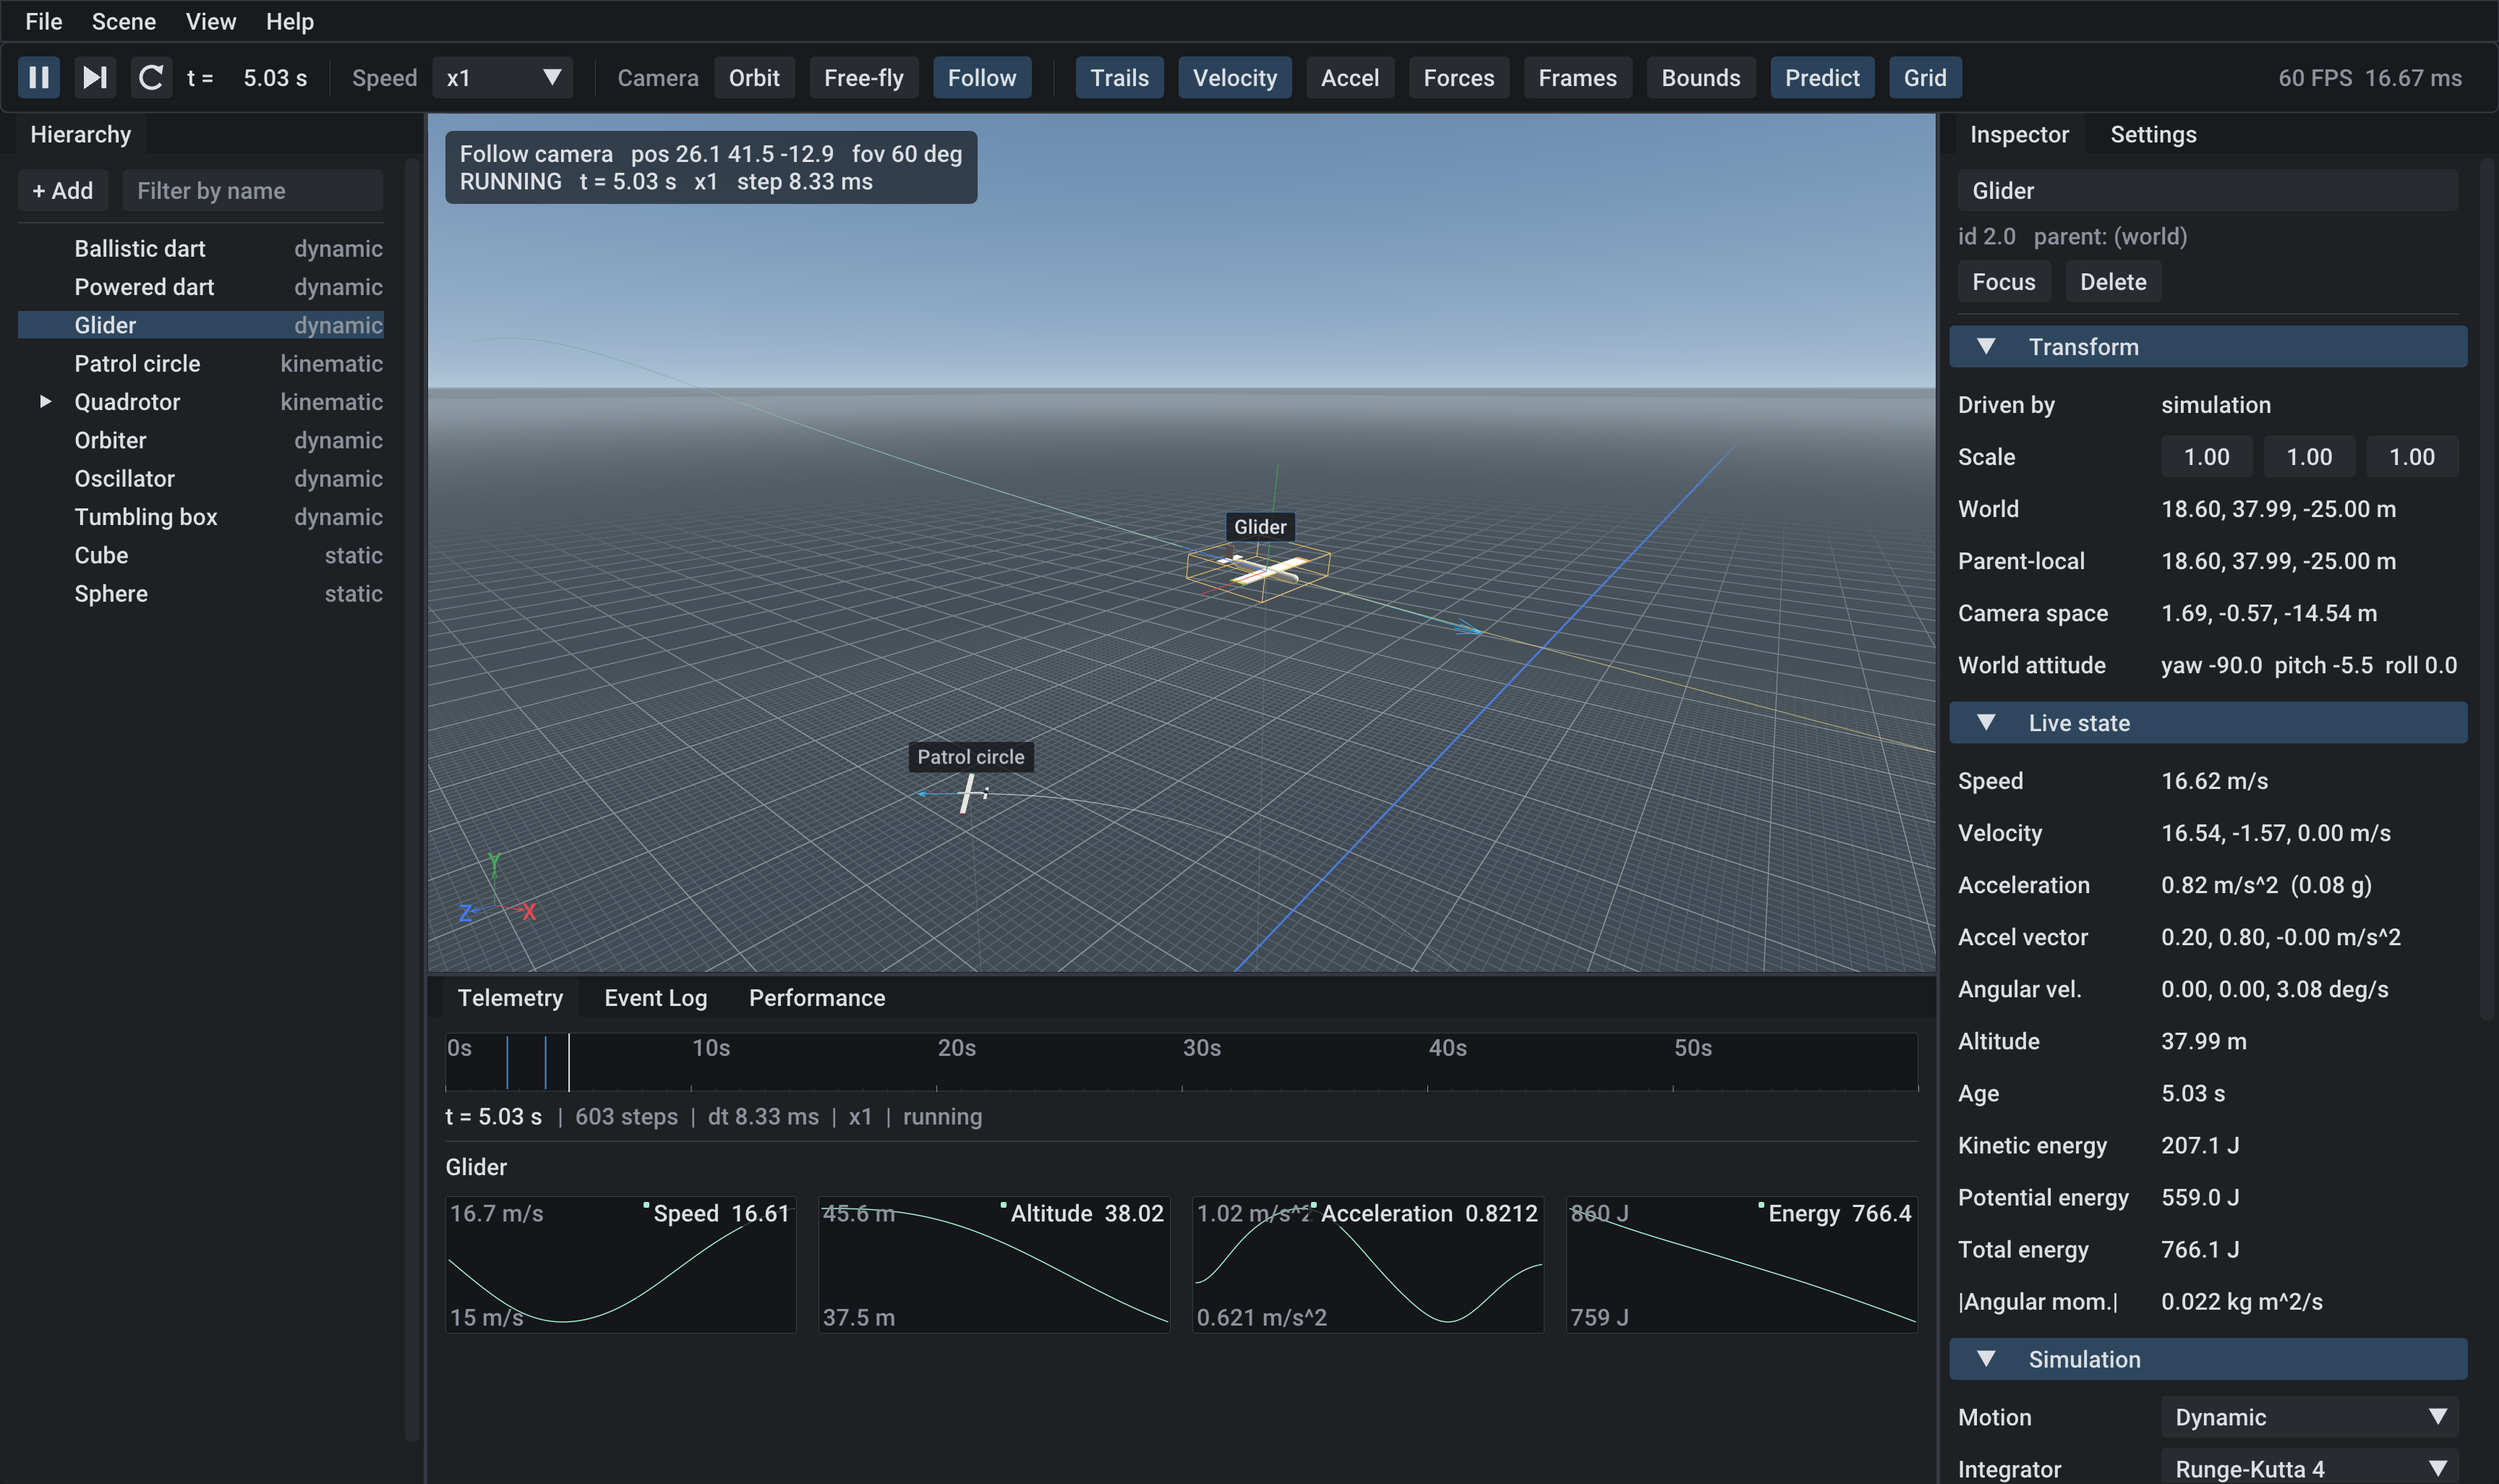
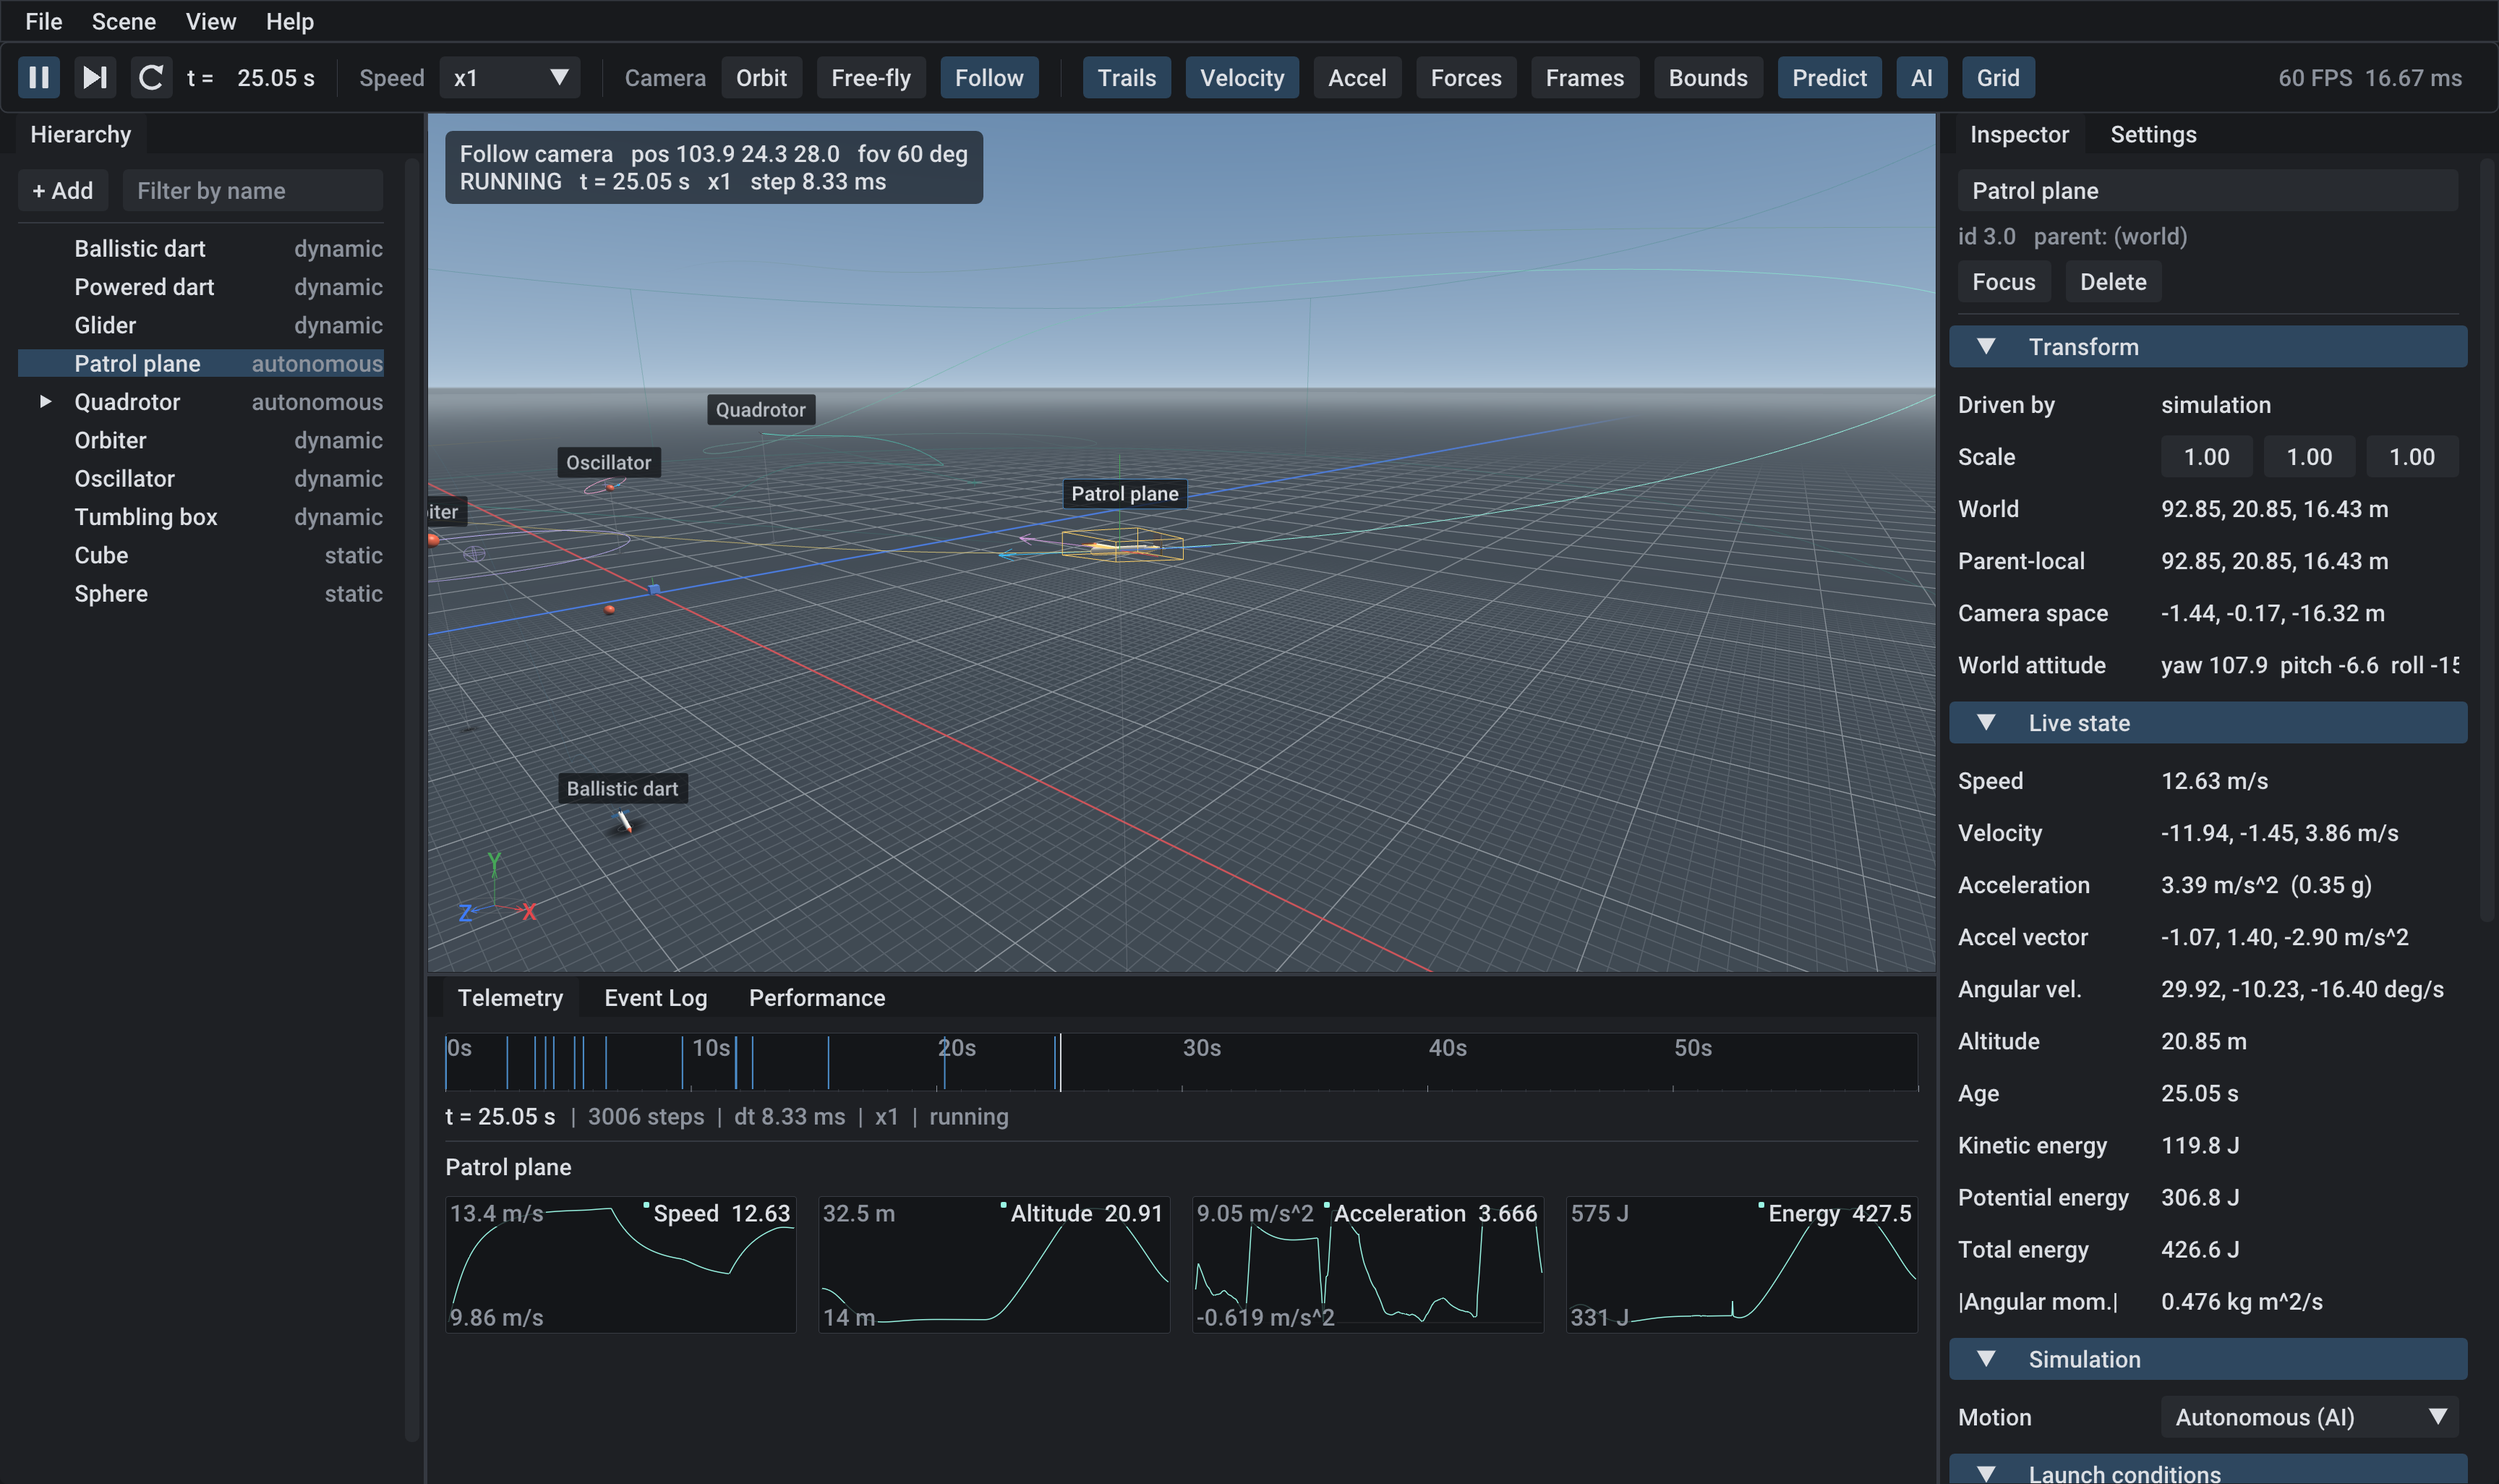
docs: describe autonomous flight agents
README feature section (decision making, steering behaviours, flight
envelopes, determinism, inspector and overlay), agent notes and limits
(bounding-sphere obstacles), architecture design note on the sim/world
split, sensing, determinism and forecasts; refreshed editor screenshot.

diff --git a/README.md b/README.md
@@ -6,10 +6,12 @@ architecture behind fast-moving aerial objects. It is written from the
 ground up in C++20 on SDL3, OpenGL 3.3 and Dear ImGui, with its own math
 library and a GoogleTest suite.
 
-It is an educational sandbox. Every object is a generic rigid body or a
-scripted path driven by configurable toy force models: balls, boxes, model
-darts, a glider, a quadrotor frame, springs, orbits. There is no guidance,
-targeting or interception logic anywhere in the code base.
+It is an educational sandbox. Every object is a generic rigid body, a
+scripted path or a self-flying "game AI" agent driven by configurable toy
+models: balls, boxes, model darts, a glider, a quadrotor frame, a small
+plane, springs, orbits. Agents only fly to points they pick themselves and
+only ever steer away from other objects; there is no guidance, targeting or
+interception logic anywhere in the code base.
 
 ![AeroLab editor: hierarchy, 3D viewport, inspector and telemetry](docs/images/editor.png)
 
@@ -45,6 +47,32 @@ targeting or interception logic anywhere in the code base.
 * Ground contact with restitution and Coulomb friction; events for thrust
   burnout, impacts and numerical divergence.
 * Play, pause, single step, reset and a 0.05x to 16x time scale.
+
+**Autonomous flight (game AI)**
+* The demo's quadrotor and patrol plane fly themselves; any object can be
+  switched to *Autonomous (AI)* in the inspector or spawned with the *AI
+  hover flight* / *AI wing flight* presets.
+* Each agent runs sense -> decide -> steer -> move every fixed step: a small
+  state machine (transit, loiter) picks destinations inside its flight area
+  by scoring random candidates (leg length, turn needed, clear line of
+  flight, novelty), chooses a cruise speed per leg, and hovers or circles
+  for a while on arrival.
+* Steering behaviours: arrive, meander (filtered random turning), stay in
+  area, altitude band, and ray-cast obstacle avoidance ("context steering":
+  fly the smallest clear deviation). Feelers work in each obstacle's moving
+  frame, so agents anticipate other moving objects; wings also check the
+  arc they are turning on, and anything too close pushes the agent away.
+  An agent whose destination becomes occupied picks another one.
+* Two flight envelopes: hover (stops, tilts up to a limit to accelerate,
+  jerk-limited) and wing (minimum airspeed, bank-limited turns with a roll
+  rate limit, climb and path-angle limits, coordinated-turn attitude).
+* Deterministic: a seeded generator means the same seed gives the same
+  flight, and the look-ahead line replays the agent's own future
+  decisions (exactly, as long as nothing else changes course).
+* Inspector *Autopilot* section: what it is doing, its destination, leg
+  speed and timers, what it is keeping clear of, plus its main tuning knobs.
+  The *AI* toolbar toggle draws destinations, the flight area, the
+  steering request and the object being avoided.
 
 **Editor**
 * Docking layout: viewport centre, scene hierarchy left, inspector and
@@ -143,10 +171,10 @@ coordinate conventions, frame anatomy and design notes.
 | `src/math` | Vec2/3/4, Mat3/4, Quat, Transform, projections, rays, AABBs |
 | `src/core` | Logging, timing, fixed timestep, input, ring buffer, stats |
 | `src/geometry` | Procedural meshes, mesh library, debug line lists |
-| `src/sim` | Rigid-body state, force model, integrators, kinematic paths |
+| `src/sim` | Rigid-body state, force model, integrators, kinematic paths, flight agents |
 | `src/camera` | Camera and the free-fly/orbit/follow rig |
 | `src/scene` | Entities, generational handles, transform hierarchy |
-| `src/world` | Simulation system, presets, picking, debug visualization |
+| `src/world` | Simulation system, agent sensing, presets, picking, debug visualization |
 | `src/render` | OpenGL 3.3 loader, shaders, meshes, MSAA target, renderer |
 | `src/editor` | Dear ImGui editor panels and widgets |
 | `src/app` | SDL3 platform layer, main loop, command line |
@@ -170,6 +198,13 @@ coordinate conventions, frame anatomy and design notes.
   single-precision rendering and the UI sane.
 * **Toy models.** Drag, lift and the weathervane torque are textbook
   idealizations for teaching, not aerodynamic models of any real vehicle.
+* **Agents.** Flight agents are point masses with simple envelopes, tuned
+  to look plausible: they demonstrate game-AI decision making and steering,
+  not the flight control of any real aircraft. Tests check their envelope,
+  area and altitude limits on every step, and that they never touch an
+  obstacle across many seeds. Obstacles are bounding spheres: a long
+  thin prop becomes a large keep-out volume, and one big enough to engulf
+  an agent's whole flight area is ignored by that agent.
 
 ## Third-party components
 

diff --git a/docs/ARCHITECTURE.md b/docs/ARCHITECTURE.md
@@ -2,9 +2,11 @@
 
 AeroLab is a small, purpose-built 3D simulation engine and editor for exploring
 the mathematics, physics, and graphics programming behind fast-moving aerial
-objects. It is an **educational sandbox**: every object is a generic rigid body
-or kinematic path driven by configurable toy force models. There is no
-guidance, targeting, or interception logic anywhere in the code base.
+objects. It is an **educational sandbox**: every object is a generic rigid body,
+a kinematic path or a self-flying game-AI agent driven by configurable toy
+models. Agents only head for points they choose themselves and only ever
+steer away from other objects; there is no guidance, targeting, or
+interception logic anywhere in the code base.
 
 ## Goals
 
@@ -187,6 +189,20 @@ convergence orders, RK4's second-order orientation, and why the
 rotation. Divergence (a non-finite state) and runaway states past the
 simulation bounds are detected per body; the body is frozen (`BodyHalt`)
 until the next reset instead of spreading NaNs or float overflow.
+
+**Autonomous agents.** `sim/flight_agent` is pure decision and motion
+logic with no scene types: `StepAgent(params, obstacles, dt, brain,
+motion)`. `world/autonomy` is the sensing side: it turns the scene into
+bounding-sphere obstacles (bodies plus free-standing props; a body's
+attached parts such as rotors are skipped) once per fixed step, before any
+body moves, so stepping order does not matter. The brain, including its
+SplitMix64 generator, is plain copyable data: reset re-seeds it, and the
+look-ahead copies it and steps the copy (moving obstacles along their
+current velocities), which is why the forecast line is exact in a static
+scene. Avoidance feelers are cast in each obstacle's frame (relative
+velocity), and `SanitizeAgentParams` makes any parameter set safe.
+Decisions surface as `SimulationEvent::Kind::kDecision` entries in
+the event log (not on stderr, they are frequent).
 
 ## Status
 
